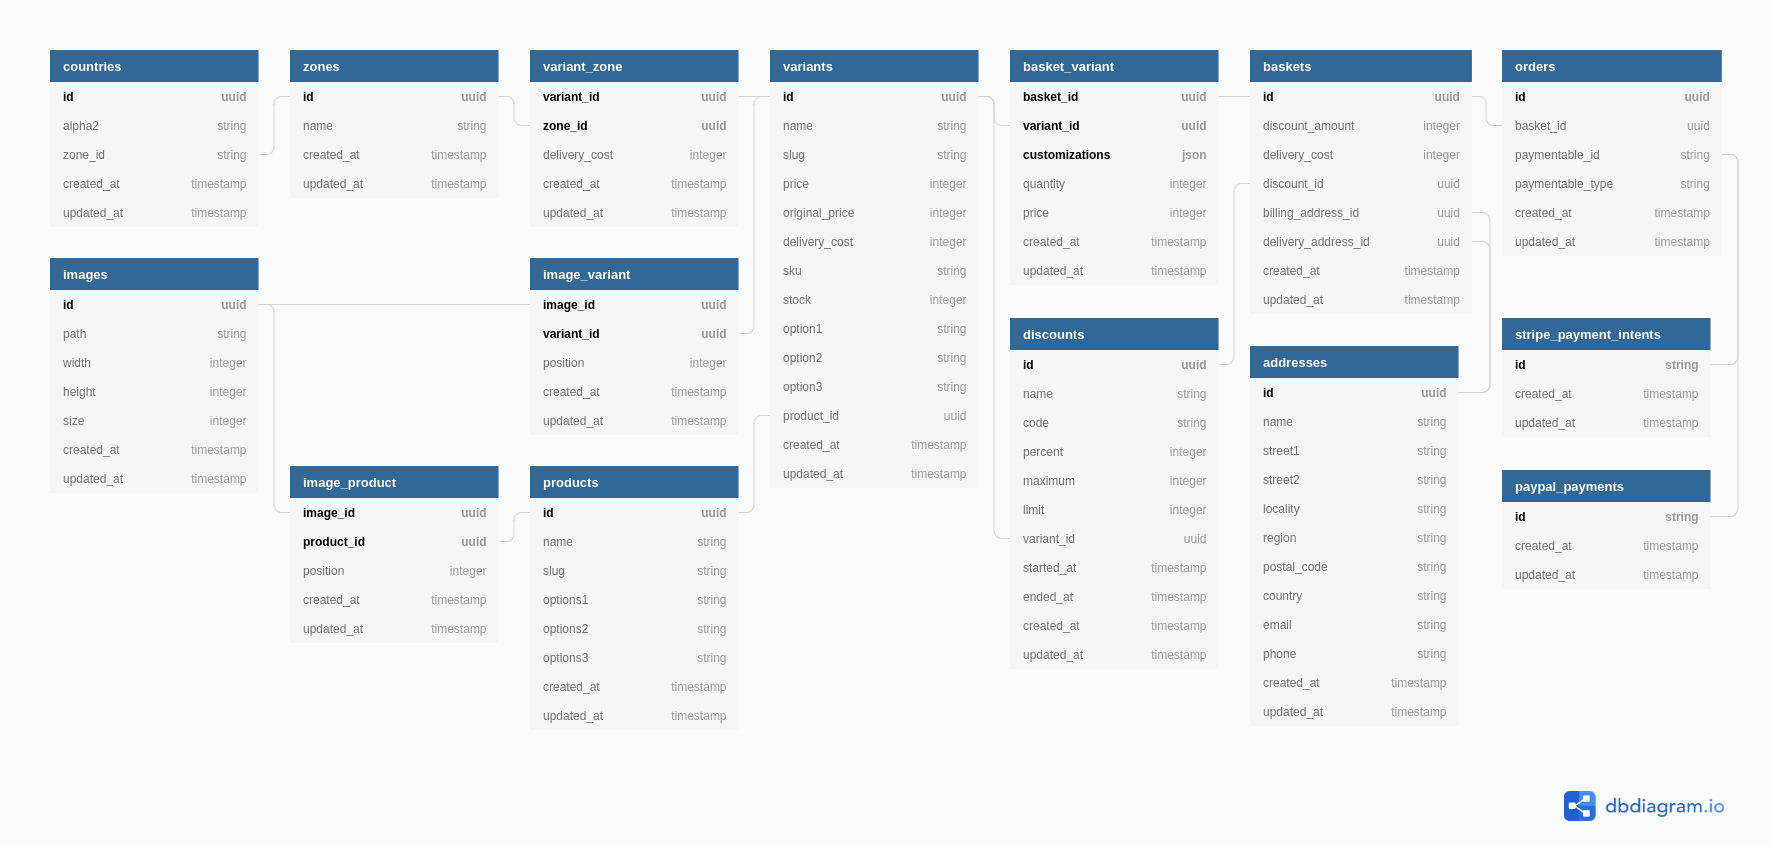
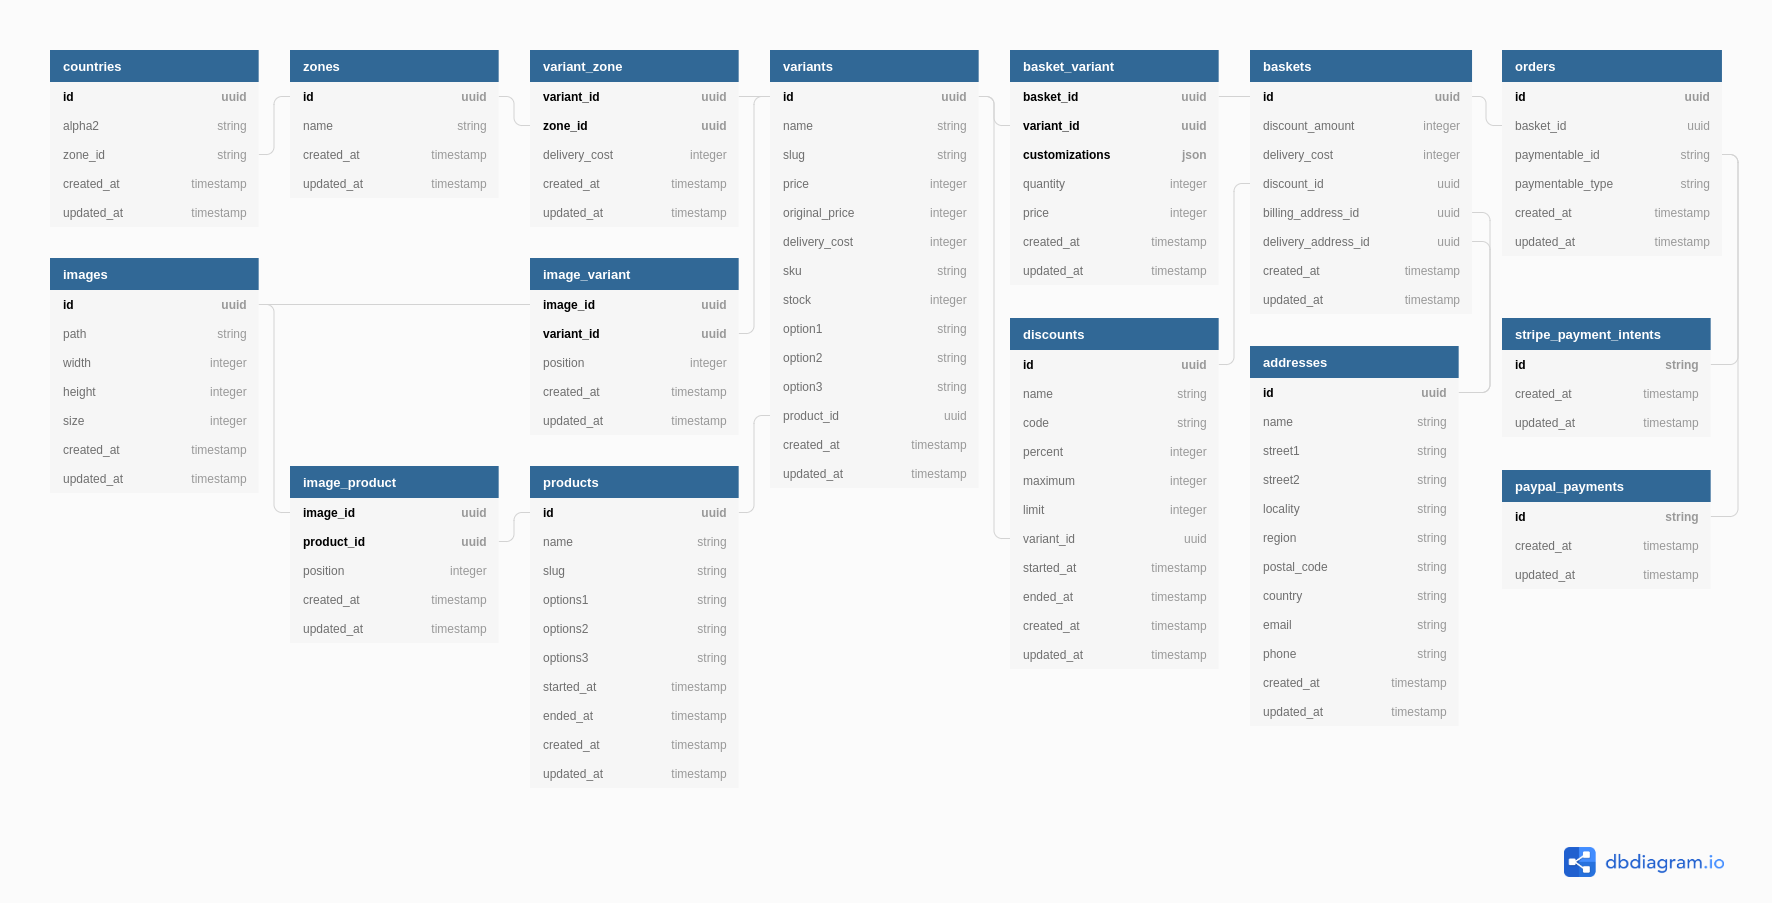
Use Startable and Endable traits on Product

diff --git a/tests/Unit/ProductTest.php b/tests/Unit/ProductTest.php
@@ -2,6 +2,7 @@
 
 namespace Tests\Unit;
 
+use Carbon\Carbon;
 use Illuminate\Foundation\Testing\RefreshDatabase;
 use Jskrd\Shop\Image;
 use Jskrd\Shop\Product;
@@ -11,6 +12,41 @@ use Tests\TestCase;
 class ProductTest extends TestCase
 {
     use RefreshDatabase;
+
+    public function testEndable(): void
+    {
+        $unended = factory(Product::class)->create(['ended_at' => null]);
+        $ending = factory(Product::class)->create(['ended_at' => Carbon::now()->addMinute()]);
+        $ended = factory(Product::class)->create(['ended_at' => Carbon::now()]);
+
+        $this->assertFalse($unended->ended());
+        $this->assertFalse($ending->ended());
+        $this->assertTrue($ended->ended());
+
+        $this->assertTrue(
+            Product::get()->contains($unended) &&
+            Product::get()->contains($ending) &&
+            ! Product::get()->contains($ended)
+        );
+
+        $this->assertTrue(
+            Product::withEnded()->get()->contains($unended) &&
+            Product::withEnded()->get()->contains($ending) &&
+            Product::withEnded()->get()->contains($ended)
+        );
+
+        $this->assertTrue(
+            Product::withoutEnded()->get()->contains($unended) &&
+            Product::withoutEnded()->get()->contains($ending) &&
+            ! Product::withoutEnded()->get()->contains($ended)
+        );
+
+        $this->assertTrue(
+            ! Product::onlyEnded()->get()->contains($unended) &&
+            ! Product::onlyEnded()->get()->contains($ending) &&
+            Product::onlyEnded()->get()->contains($ended)
+        );
+    }
 
     public function testIdentifies(): void
     {
@@ -31,6 +67,41 @@ class ProductTest extends TestCase
         $product->update(['name' => 'Photo book']);
 
         $this->assertSame('photo-book', $product->slug);
+    }
+
+    public function testStartable(): void
+    {
+        $unstarted = factory(Product::class)->create(['started_at' => null]);
+        $starting = factory(Product::class)->create(['started_at' => Carbon::now()->addMinute()]);
+        $started = factory(Product::class)->create(['started_at' => Carbon::now()]);
+
+        $this->assertFalse($unstarted->started());
+        $this->assertFalse($starting->started());
+        $this->assertTrue($started->started());
+
+        $this->assertTrue(
+            ! Product::get()->contains($unstarted) &&
+            ! Product::get()->contains($starting) &&
+            Product::get()->contains($started)
+        );
+
+        $this->assertTrue(
+            Product::withUnstarted()->get()->contains($unstarted) &&
+            Product::withUnstarted()->get()->contains($starting) &&
+            Product::withUnstarted()->get()->contains($started)
+        );
+
+        $this->assertTrue(
+            ! Product::withoutUnstarted()->get()->contains($unstarted) &&
+            ! Product::withoutUnstarted()->get()->contains($starting) &&
+            Product::withoutUnstarted()->get()->contains($started)
+        );
+
+        $this->assertTrue(
+            Product::onlyUnstarted()->get()->contains($unstarted) &&
+            Product::onlyUnstarted()->get()->contains($starting) &&
+            ! Product::onlyUnstarted()->get()->contains($started)
+        );
     }
 
     public function testImages(): void

diff --git a/src/Product.php b/src/Product.php
@@ -5,13 +5,17 @@ namespace Jskrd\Shop;
 use Illuminate\Database\Eloquent\Model;
 use Illuminate\Database\Eloquent\Relations\BelongsToMany;
 use Illuminate\Database\Eloquent\Relations\HasMany;
+use Jskrd\Shop\Traits\Endable;
 use Jskrd\Shop\Traits\Identifies;
 use Jskrd\Shop\Traits\Slugifies;
+use Jskrd\Shop\Traits\Startable;
 
 class Product extends Model
 {
+    use Endable;
     use Identifies;
     use Slugifies;
+    use Startable;
 
     protected $fillable = [
         'name',

diff --git a/database/factories/ProductFactory.php b/database/factories/ProductFactory.php
@@ -1,5 +1,6 @@
 <?php
 
+use Carbon\Carbon;
 use Faker\Generator as Faker;
 use Jskrd\Shop\Product;
 
@@ -9,5 +10,7 @@ $factory->define(Product::class, function (Faker $faker) {
         'options1' => ucfirst($faker->word),
         'options2' => ucfirst($faker->word),
         'options3' => ucfirst($faker->word),
+        'started_at' => Carbon::now(),
+        'ended_at' => null,
     ];
 });

diff --git a/database/migrations/2019_07_14_000000_create_products_table.php b/database/migrations/2019_07_14_000000_create_products_table.php
@@ -15,6 +15,8 @@ class CreateProductsTable extends Migration
             $table->string('options1')->nullable();
             $table->string('options2')->nullable();
             $table->string('options3')->nullable();
+            $table->timestamp('started_at')->nullable();
+            $table->timestamp('ended_at')->nullable();
             $table->timestamps();
         });
     }
